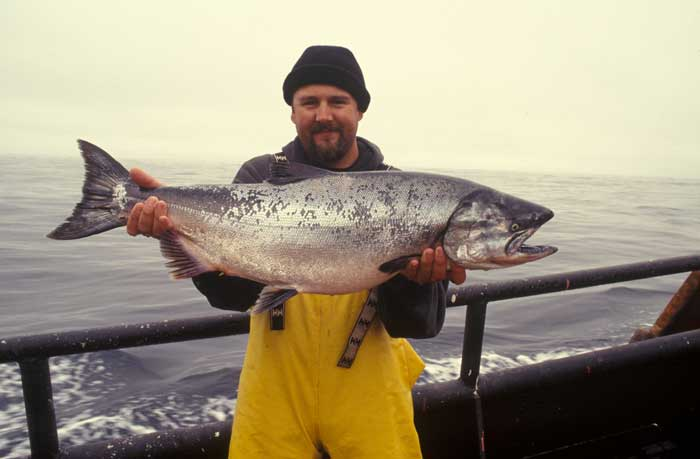
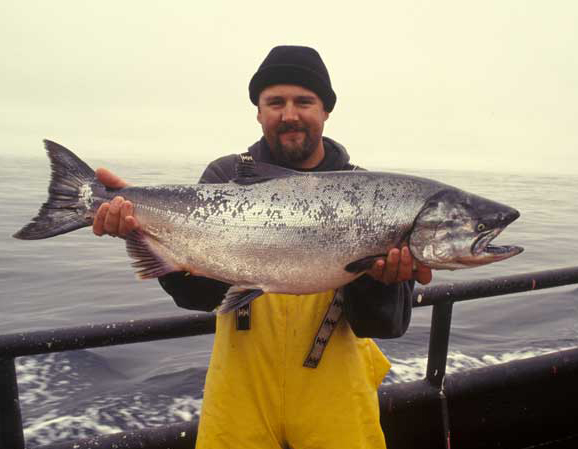
2/3

diff --git a/lesson11/fishhaven.html b/lesson11/fishhaven.html
@@ -116,12 +116,11 @@
       <section class="fishy"><h3>Upcoming Events</h3></section>
     </div>
       <div class="content">
-      <img id="peoplepark" src="images/park-pexels-mentatdgt-1220755.jpg" alt="people in park">
-      <h3 id="article">Article</h3>
-      <p>Lorem ipsum dolor sit amet, consectetur adipiscing elit, sed do eiusmod tempor incididunt ut labore et dolore magna aliqua. Amet est placerat in egestas erat imperdiet sed euismod nisi. Dolor magna eget est lorem ipsum dolor. Neque aliquam vestibulum morbi blandit cursus risus at. Congue eu consequat ac felis donec et odio pellentesque diam. Cras tincidunt lobortis feugiat vivamus at augue eget arcu dictum. Viverra vitae congue eu consequat ac felis donec et. At risus viverra adipiscing at in tellus integer feugiat scelerisque. Nec feugiat nisl pretium fusce id velit ut tortor. Egestas sed tempus urna et pharetra pharetra massa. Vel eros donec ac odio tempor. Tincidunt eget nullam non nisi est sit amet.
-
-        Ultrices dui sapien eget mi proin sed libero enim. Turpis egestas integer eget aliquet. Dolor magna eget est lorem ipsum dolor sit amet. Tincidunt ornare massa eget egestas purus viverra accumsan in. Ultricies tristique nulla aliquet enim tortor at auctor urna. Habitant morbi tristique senectus et. Pretium vulputate sapien nec sagittis aliquam malesuada. Tincidunt eget nullam non nisi est sit amet. Massa sed elementum tempus egestas sed. Purus gravida quis blandit turpis cursus. Ut consequat semper viverra nam. Malesuada proin libero nunc consequat interdum varius sit amet mattis. Urna molestie at elementum eu facilisis. Ornare lectus sit amet est placerat in egestas. Faucibus nisl tincidunt eget nullam.</p>
-      
+      <img id="fisherman" src="images/fisherman.jpg" alt="man holding a fish">
+      <h3 id="article">Mermaids or Hallucinations?</h3>
+      <p>
+        Early this week a group of fishermen came in from a day of fishing dazed and rambling on about mermaids. These fishermen were out on the lake early in the morning and spotted what they thought was a mermaid in the waters. As they sailed closer the creature disappeared into the depths. They sat searching the water and a school of fish swam past, they attempted to drop their nets to catch this large bounty which would sell well in town. Upon dropping their nets, they saw the mermaid like creature again. This time she looked at them through the depths of water capturing their gaze. As one fisherman stated, “A calm a peace came over me. I no longer had desire to do anything other than stare into her eyes. It was as though she were lookin into me soul.” Fish Haven has long been known as a mystical place and this is not the first-time people have claimed to see mermaids in the water. However, the real question is why these men were attempting to fish when Fish Haven, likes its name is a Haven for fish and no one is to harm them in any way.
+      </p>
     </div>
     <section id="contact">
       <img class="googlemap" src="images/googlemap.png" alt="map">

diff --git a/lesson11/preston.html b/lesson11/preston.html
@@ -116,12 +116,11 @@
       <section class="presevent"><h3>Upcoming Events</h3></section>
       </div>
       <div class="content">
-      <img id="peoplepark" src="images/park-pexels-mentatdgt-1220755.jpg" alt="people in park">
-      <h3 id="article">Article</h3>
-      <p>Lorem ipsum dolor sit amet, consectetur adipiscing elit, sed do eiusmod tempor incididunt ut labore et dolore magna aliqua. Amet est placerat in egestas erat imperdiet sed euismod nisi. Dolor magna eget est lorem ipsum dolor. Neque aliquam vestibulum morbi blandit cursus risus at. Congue eu consequat ac felis donec et odio pellentesque diam. Cras tincidunt lobortis feugiat vivamus at augue eget arcu dictum. Viverra vitae congue eu consequat ac felis donec et. At risus viverra adipiscing at in tellus integer feugiat scelerisque. Nec feugiat nisl pretium fusce id velit ut tortor. Egestas sed tempus urna et pharetra pharetra massa. Vel eros donec ac odio tempor. Tincidunt eget nullam non nisi est sit amet.
-
-        Ultrices dui sapien eget mi proin sed libero enim. Turpis egestas integer eget aliquet. Dolor magna eget est lorem ipsum dolor sit amet. Tincidunt ornare massa eget egestas purus viverra accumsan in. Ultricies tristique nulla aliquet enim tortor at auctor urna. Habitant morbi tristique senectus et. Pretium vulputate sapien nec sagittis aliquam malesuada. Tincidunt eget nullam non nisi est sit amet. Massa sed elementum tempus egestas sed. Purus gravida quis blandit turpis cursus. Ut consequat semper viverra nam. Malesuada proin libero nunc consequat interdum varius sit amet mattis. Urna molestie at elementum eu facilisis. Ornare lectus sit amet est placerat in egestas. Faucibus nisl tincidunt eget nullam.</p>
-      
+      <img id="firemen" src="images/firemen.jpg" alt="firemen fighting building fire">
+      <h3 id="article">Earthquakes, Firemen and Shock Waves. Oh my!</h3>
+      <p>
+        This week in Preston we were all shocked, no pun intended by the earthquake we had Saturday night. Preston is not known for having earthquakes and so none of us, my self included were caught off guard. The earthquake was a 7.2 on the Richter scale which is no small quake. There was damage to several homes, and many had bodily injury. However, there was no loss of life thanks to our amazing fire department Preston F.D. These brave men worked around the clock to put out some of the fires that sparked as a result of broken gas lines. They were also able to rescue members of our community caught in upper floors with no way to descend due to broken staircases and shifted houses. These firemen truly, “prest, on” in the face of adversity and held up our town heritage of never giving up even when things seem insurmountable.
+      </p>
     </div>
     <section id="contact">
       <img class="googlemap" src="images/googlemap.png" alt="map">

diff --git a/lesson11/css/large.css b/lesson11/css/large.css
@@ -40,7 +40,7 @@
     margin: 10px;
     
 }
-#peoplepark{
+.content img{
     max-width:600px;
     float: right;}
 

diff --git a/lesson11/css/small.css b/lesson11/css/small.css
@@ -473,3 +473,7 @@ th { width:20%;}
 .events div p{
     padding:10px;
 }
+
+.content img{
+    width: 75%;
+}
